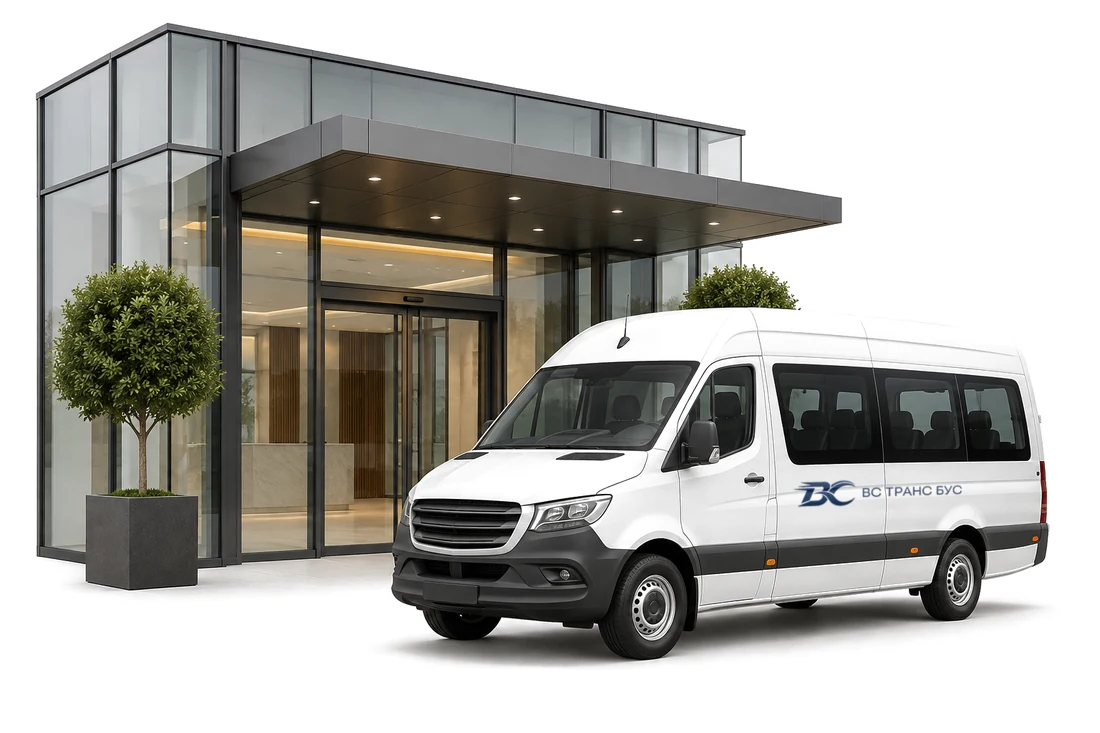
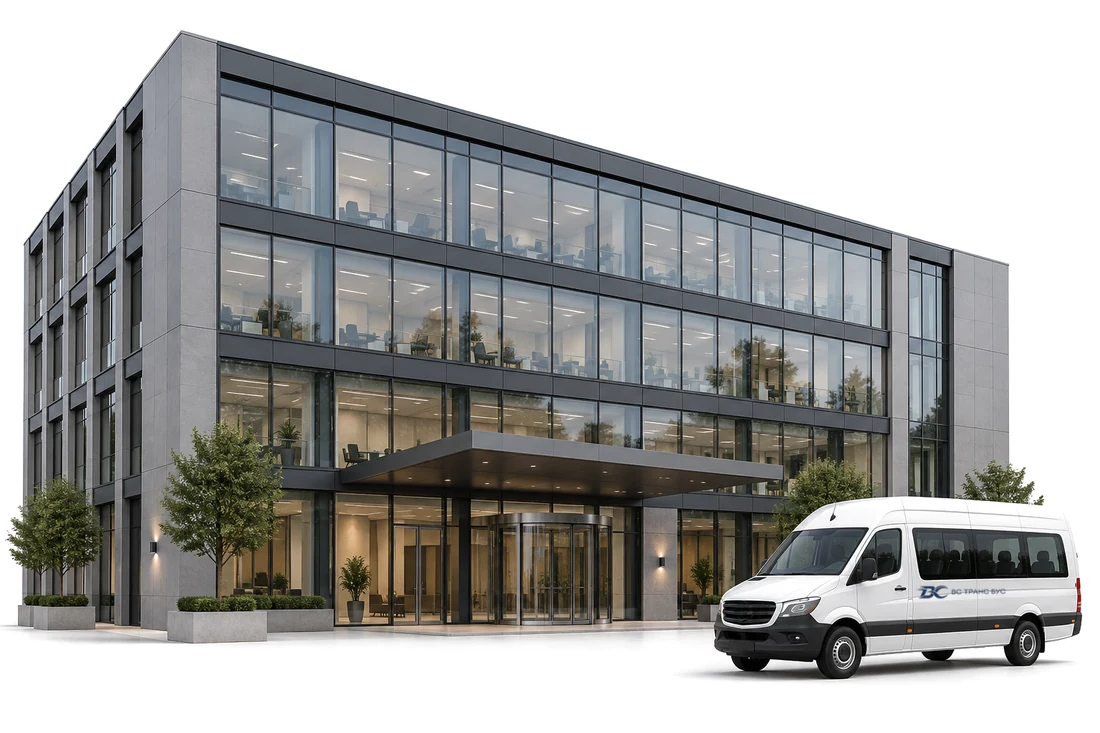
«Кого возим»: здания крупно, транспорт мелко во всех трёх сценах; новый офис без чужой эмблемы

diff --git a/index.html b/index.html
@@ -83,7 +83,7 @@
           <h3 class="card__title">Склады</h3>
           <p class="card__text">Сотрудники складов и распределительных центров. Дневные и ночные смены.</p>
         </div>
-        <img class="card__img" src="img/sklad.webp?v=3" alt="Автобус у склада" width="1100" height="733" loading="lazy">
+        <img class="card__img" src="img/sklad.webp?v=4" alt="Автобус у склада" width="1100" height="733" loading="lazy">
         <span class="card__go" aria-hidden="true"></span>
       </a>
       <a class="card reveal" href="#kontakty">
@@ -91,7 +91,7 @@
           <h3 class="card__title">Заводы</h3>
           <p class="card__text">Рабочие смены на производство по графику предприятия.</p>
         </div>
-        <img class="card__img" src="img/zavod.webp?v=3" alt="Автобус у завода" width="1100" height="733" loading="lazy">
+        <img class="card__img" src="img/zavod.webp?v=4" alt="Автобус у завода" width="1100" height="733" loading="lazy">
         <span class="card__go" aria-hidden="true"></span>
       </a>
       <a class="card reveal" href="#kontakty">
@@ -99,7 +99,7 @@
           <h3 class="card__title">Офисы</h3>
           <p class="card__text">Сотрудники офисов и бизнес-центров. Маршрут от метро или от дома.</p>
         </div>
-        <img class="card__img" src="img/ofis.webp" alt="Микроавтобус у бизнес-центра" width="1100" height="733" loading="lazy">
+        <img class="card__img" src="img/ofis.webp?v=4" alt="Микроавтобус у бизнес-центра" width="1100" height="733" loading="lazy">
         <span class="card__go" aria-hidden="true"></span>
       </a>
     </div>
